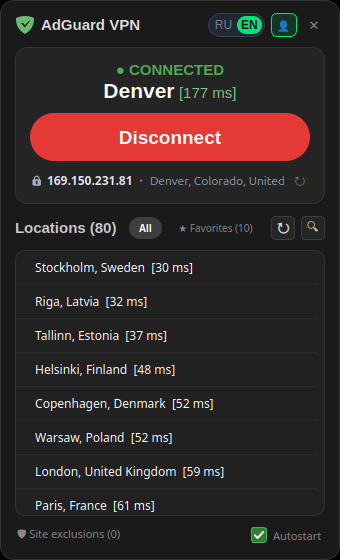
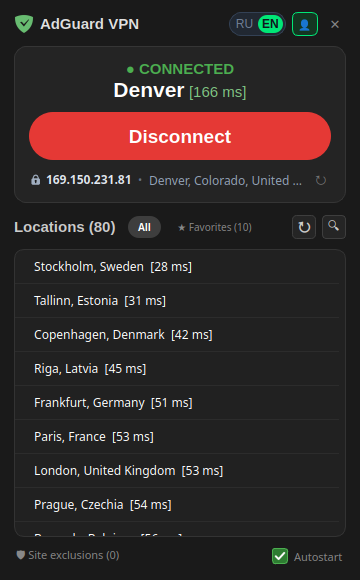
Docs: v2 window screenshot, exact wording on binaries, Settings menu item

diff --git a/docs/index.html b/docs/index.html
@@ -261,7 +261,7 @@
     </div>
   </div>
   <div class="hero__pane">
-    <img class="in" src="screenshot.png" width="340" height="560" alt="Окно AdGuard VPN GUI: подключено к Denver с пингом 177 мс, публичный IP, список из 80 локаций с пингами от 30 мс">
+    <img class="in" src="screenshot.png" width="360" height="580" alt="Окно настроек AdGuard VPN GUI: подключено к Denver, пинг, публичный IP, список из 80 локаций с пингами">
   </div>
 </header>
 
@@ -391,7 +391,7 @@ venv/bin/python AdGuard.py</code></pre>
     <h3>Ограничения</h3>
     <ul class="plain">
       <li><strong>Подпись с&nbsp;городом рядом со&nbsp;значком</strong> в&nbsp;панели пока не&nbsp;выводится. Состояние несут цвет значка, подсказка и&nbsp;первая строка меню.</li>
-      <li><strong>Демон это двоичный файл.</strong> Исходник лежит рядом, около 500 строк; файлы в&nbsp;релизах собирает GitHub Actions из&nbsp;этого исходника, установщик сверяет контрольную сумму, сетевых библиотек в&nbsp;коде нет.</li>
+      <li><strong>Демон это двоичный файл.</strong> Исходник лежит рядом, около 500 строк; файлы в&nbsp;релизах собирает GitHub Actions из&nbsp;этого исходника, установщик сверяет контрольную сумму, а&nbsp;при наличии cargo собирает демон сам. Сетевых библиотек в&nbsp;коде нет.</li>
       <li>Только Linux. На&nbsp;macOS и&nbsp;Windows у&nbsp;AdGuard есть собственные приложения.</li>
       <li>Первое подключение может попросить настроить права для туннеля. Сделайте это один раз в&nbsp;терминале: <code>adguardvpn-cli connect</code>.</li>
       <li>Автоподключение до&nbsp;входа в&nbsp;систему делается системным юнитом, пример лежит в&nbsp;<code>systemd/</code> репозитория. Окно увидит такое подключение как любое другое.</li>

diff --git a/README.md b/README.md
@@ -8,7 +8,7 @@
 
 [English version](README.en.md)
 
-![Окно AdGuard VPN GUI: подключено к Denver, список локаций с пингами](docs/screenshot.png)
+![Окно настроек AdGuard VPN GUI: подключено к Denver, список локаций с пингами](docs/screenshot.png)
 
 Страница проекта: https://iresultman.github.io/adguardvpn-Linux-gui/
 
@@ -139,8 +139,9 @@ venv/bin/python AdGuard.py
 1. Исходник в `daemon/src/main.rs`, около 500 строк, читается за 15 минут.
 2. Файлы в релизах собирает GitHub Actions из этого исходника
    (`.github/workflows/daemon.yml`), рядом лежит `SHA256SUMS`, установщик
-   сверяет сумму. Та же команда `cargo build --release` даёт тот же файл
-   локально.
+   сверяет сумму скачанного файла с ней. Кто не хочет скачивать, собирает
+   сам: `cargo build --release --manifest-path daemon/Cargo.toml`, именно
+   это делает установщик, когда находит cargo.
 3. Демон не открывает сетевых соединений. Проверяется чтением кода: в нём
    нет ни одной сетевой библиотеки.
 

diff --git a/README.en.md b/README.en.md
@@ -7,7 +7,7 @@ of its own: every action runs the command you would otherwise type.
 
 [Русская версия](README.md)
 
-![AdGuard VPN GUI window: connected to Denver, list of locations with pings](docs/screenshot.png)
+![AdGuard VPN GUI settings window: connected to Denver, list of locations with pings](docs/screenshot.png)
 
 Project page: https://iresultman.github.io/adguardvpn-Linux-gui/
 
@@ -139,7 +139,9 @@ The daemon is a binary, and there are three ways to know what is in it:
 1. The source is `daemon/src/main.rs`, about 500 lines, a 15-minute read.
 2. Release files are built by GitHub Actions from that source
    (`.github/workflows/daemon.yml`) next to a `SHA256SUMS` the installer
-   checks. The same `cargo build --release` gives the same file locally.
+   checks the download against. Anyone who would rather not download builds
+   it themselves: `cargo build --release --manifest-path daemon/Cargo.toml`,
+   which is exactly what the installer does when it finds cargo.
 3. The daemon opens no network connections. Verifiable by reading the code:
    there is no networking library in it.
 
